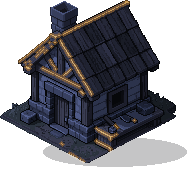
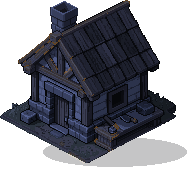
Gece çatı turuncusu söndü, okçu başı yukarı nişanda görünür, yıkık+akşam tonu, beyaz at
- varyant/*_gece: ev3, ciftlik3, oduncu1, duvarci1, demirci1, yayci2, yayci3 çatı kenarı/tarla/çalı turuncusu gündüz pikselinin gece dönüşümüyle değiştirildi (uretim/turuncu_sil.py); pencere ve ocak ışıkları kaldı
- okcu.png: -80..-35° karelerine 0° karesinin başı üstten çizildi (uretim/bas_katmani.py)
- varyant.js: sur yıkıkken akşam/gece tonu da uygulanır (geceAktif)
- kale_ic2.json: at_beyaz 632,450 (oduncu 3 odun yığınının arkasından çıktı)

Claude-Session: https://claude.ai/code/session_01UDmPYyAuKDS6r7CGECjndN

diff --git a/motor-deneme-5b8e2f/js/varyant.js b/motor-deneme-5b8e2f/js/varyant.js
@@ -77,6 +77,9 @@ const Varyant = {
     return this.sezon(o).varyant || null;
   },
 
+  // Akşam (savaşa çıkış) ya da ?gece=1: yıkık hâlde de gece tonu verilir
+  geceAktif(sahne) { return !!(sahne.geceMi || this.test.gece); },
+
   kisMi(sahne) { return this.sezon(sahne.oyun).varyant === 'karli'; },
 
   // Binanın gösterilecek dokusu (varyant yoksa normal doku).
@@ -92,13 +95,13 @@ const Varyant = {
   // Doku gece görseliyse hafif ton; gündüz/kar görseli gece gösteriliyorsa koyu gece tonu
   tonla(sahne, sp, doku) {
     if (doku.endsWith('_gece')) sp.setTint(VARYANT_AYAR.geceDokuTon);
-    else if (this.hal(sahne) === 'gece' && doku.endsWith('_karli')) sp.setTint(VARYANT_AYAR.ton.gece);
+    else if (this.geceAktif(sahne) && (doku.endsWith('_karli') || doku.endsWith('_yikik') || this.hal(sahne) === 'yikik')) sp.setTint(VARYANT_AYAR.ton.gece);
     else sp.clearTint();
   },
 
   // Köylü ve nöbetçiler gece hafif kararır (kale.js koyluYap da çağırır)
   koyluTonu(sahne, sp) {
-    if (this.hal(sahne) === 'gece') sp.setTint(VARYANT_AYAR.koyluGeceTon); else sp.clearTint();
+    if (this.geceAktif(sahne)) sp.setTint(VARYANT_AYAR.koyluGeceTon); else sp.clearTint();
   },
   geceTonu(sp, doku) {
     if (doku.endsWith('_gece')) sp.setTint(VARYANT_AYAR.geceDokuTon); else sp.clearTint();
@@ -139,6 +142,7 @@ const Varyant = {
       } else if (h === 'karli' || h === 'yikik') {
         if (kis) doku = kis;
         else if (h === 'karli') tint = VARYANT_AYAR.ton.karli;
+        if (h === 'yikik' && this.geceAktif(sahne)) tint = VARYANT_AYAR.ton.gece; // yıkık + akşam
       }
       if (k !== doku) c.setTexture(doku);
       if (tint === null) c.clearTint(); else c.setTint(tint);

diff --git a/motor-deneme-5b8e2f/uretim/turuncu_sil.py b/motor-deneme-5b8e2f/uretim/turuncu_sil.py
@@ -1,0 +1,29 @@
+# Gece varyantlarında çatı kenarı / tarla / çalı üzerindeki yanlış turuncu parıltıyı söner.
+# Turuncu piksel, gündüz görselindeki karşılığı da sıcak renkliyse (ahşap, saman, buğday)
+# gündüz pikselinin gece dönüşümüyle değiştirilir; pencere ışıkları (gündüzde soğuk cam) kalır.
+import sys, colorsys
+import numpy as np
+from PIL import Image
+kok, cikis = sys.argv[1], sys.argv[2]
+def hsv(c): return colorsys.rgb_to_hsv(*(v/255 for v in c[:3]))
+def turuncu(c, s0=0.4, v0=0.4):
+    h,s,v=hsv(c); return 0.05<h<0.18 and s>s0 and v>v0
+def sicak(c):
+    h,s,v=hsv(c); return (0.0<=h<0.2) and s>0.2
+for ad in sys.argv[3:]:
+    g=np.array(Image.open(f'{kok}/varyant/{ad}_gece.png').convert('RGBA')).astype(float)
+    b=np.array(Image.open(f'{kok}/{ad}.png').convert('RGBA')).astype(float)
+    H,W=g.shape[:2]
+    mask=np.zeros((H,W),bool)
+    for y in range(H):
+        for x in range(W):
+            if g[y,x,3]>100 and b[y,x,3]>100 and turuncu(g[y,x]) and sicak(b[y,x]): mask[y,x]=True
+    # gece = A*gündüz + c (kanal başına), turuncu olmayan opak piksellerden
+    ok=(g[...,3]>200)&(b[...,3]>200)&~mask
+    out=g.copy()
+    for k in range(3):
+        A=np.vstack([b[ok][:,k],np.ones(ok.sum())]).T
+        m,c=np.linalg.lstsq(A,g[ok][:,k],rcond=None)[0]
+        out[mask,k]=np.clip(b[mask,k]*m+c,0,255)
+    Image.fromarray(out.astype(np.uint8)).save(f'{cikis}/{ad}_gece.png')
+    print(ad, int(mask.sum()))

diff --git a/motor-deneme-5b8e2f/uretim/bas_katmani.py b/motor-deneme-5b8e2f/uretim/bas_katmani.py
@@ -1,0 +1,22 @@
+# Okçu yukarı nişanda (-80..-35°) kol/yay başı örtüyordu: 0° germe-0 karesindeki baş
+# (kukuleta + yüz) bu karelerin üstüne yeniden çizilir. Omuz tüm karelerde 150,134 sabit.
+import sys
+from PIL import Image
+giris, cikis = sys.argv[1], sys.argv[2]
+im = Image.open(giris).convert('RGBA')
+A = list(range(-80, 81, 5)); FW = 300; SUT = im.width // FW
+def kutu(i): return ((i % SUT) * FW, (i // SUT) * FW, (i % SUT) * FW + FW, (i // SUT) * FW + FW)
+kaynak = im.crop(kutu(A.index(0)))           # germe 0, 0°
+X0, Y0, X1, Y1 = 130, 76, 182, 121
+bas = Image.new('RGBA', (FW, FW))
+px = kaynak.load(); bp = bas.load()
+for y in range(Y0, Y1):
+    for x in range(X0, X1):
+        r, g, b, a = px[x, y]
+        if a > 0: bp[x, y] = (r, g, b, a)
+for sira in range(3):
+    for a in A:
+        if a > -35: continue
+        i = sira * 33 + A.index(a)
+        fr = im.crop(kutu(i)); fr.alpha_composite(bas); im.paste(fr, kutu(i)[:2])
+im.save(cikis)
